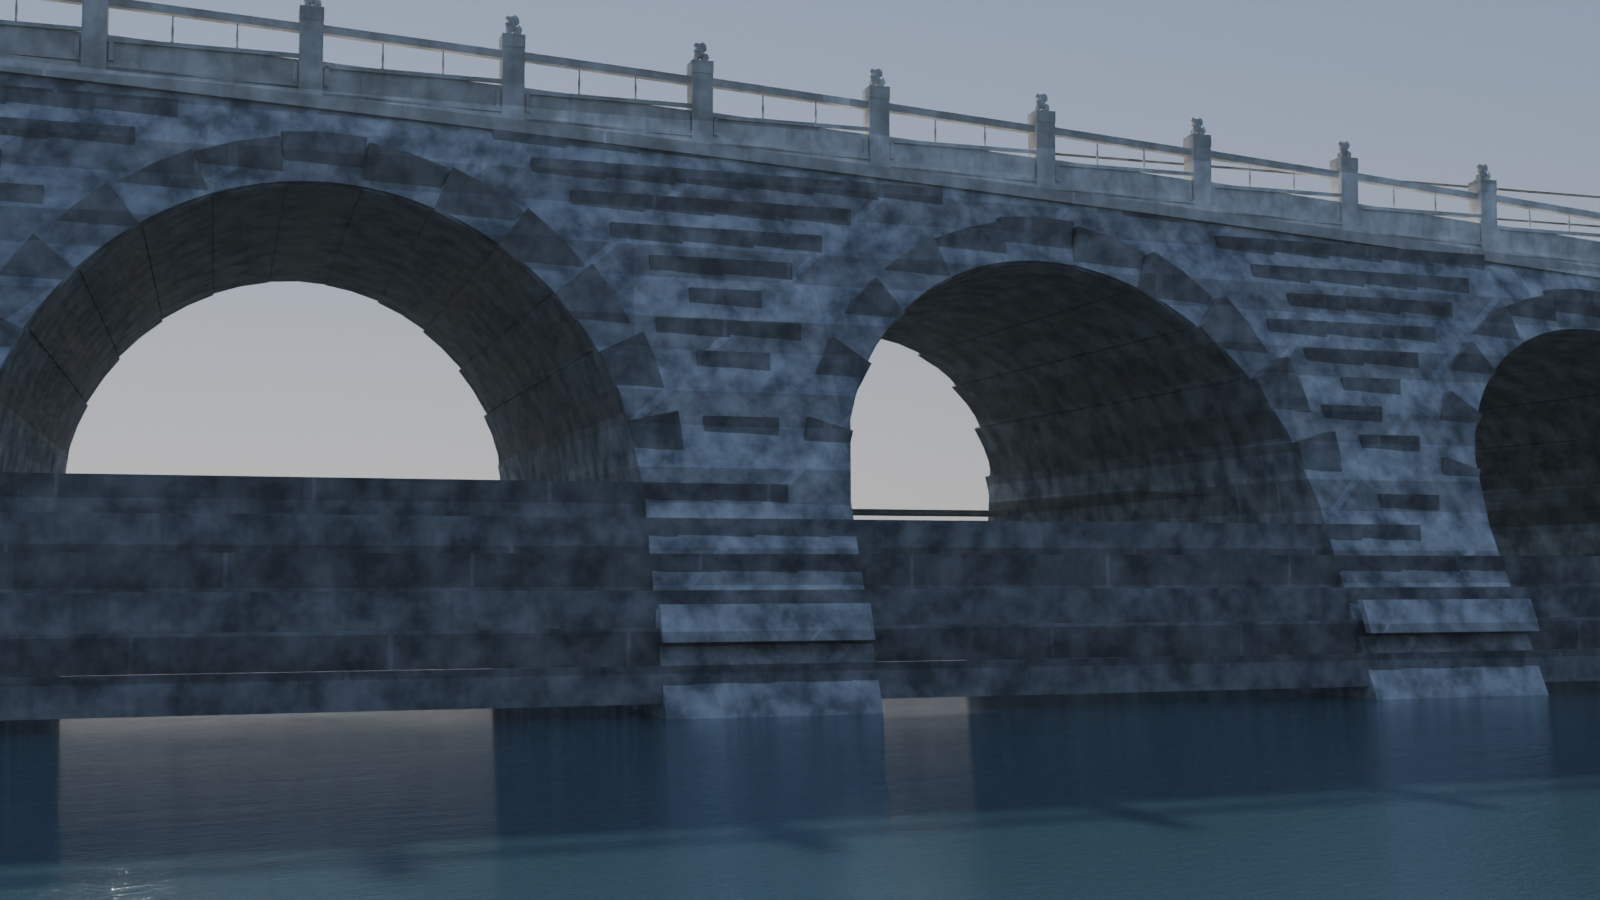
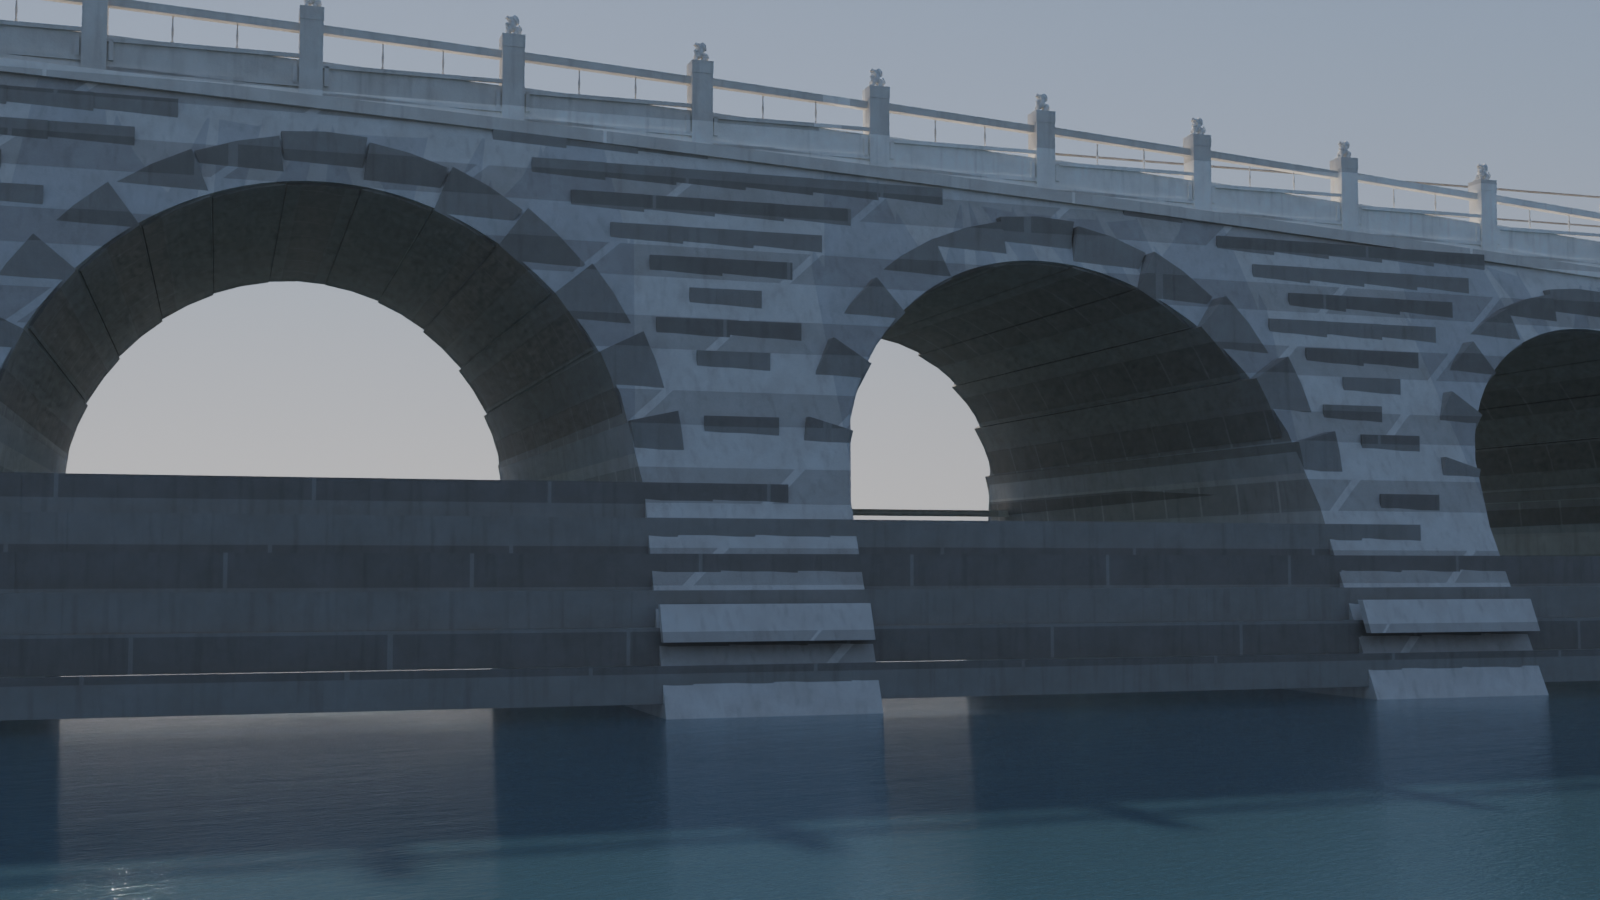
feat(e30): M16材质光学第一轮(八审'后续必做'起手)——缝从黑线(乘0.74)改浅灰侵蚀(0.87)/基色冷灰蓝提亮为暖中性0.43/风化噪声改暖灰污染ramp/块间色差减半/weather 0.42->0.22/砧石出挑0.12->0.03(近齐口); 残留: 拱肩仍有明暗棋盘斑块, 三轮迭代未除根(非浮雕非贴图主因待定位, 疑block噪声相位), 八审裁材质非本轮建模刀, 留材质专项轮

diff --git a/e30_shikongqiao_video/3d/materials.py b/e30_shikongqiao_video/3d/materials.py
@@ -110,11 +110,11 @@ def stone_material(name, base_rgb, joint=0.020, course_h=0.42, weather=0.55,
     blk_mul_d = nt.nodes.new("ShaderNodeMixRGB"); blk_mul_d.blend_type = 'MULTIPLY'
     blk_mul_d.inputs["Fac"].default_value = 1.0
     blk_mul_d.inputs["Color1"].default_value = (base_rgb[0], base_rgb[1], base_rgb[2], 1.0)
-    blk_mul_d.inputs["Color2"].default_value = (0.93, 0.945, 0.915, 1.0)  # 偏冷偏暗块
+    blk_mul_d.inputs["Color2"].default_value = (0.975, 0.968, 0.955, 1.0)  # [八审x2] 块间色差减半(0.93级在提亮基色上读成棋盘格)
     blk_mul_l = nt.nodes.new("ShaderNodeMixRGB"); blk_mul_l.blend_type = 'MULTIPLY'
     blk_mul_l.inputs["Fac"].default_value = 1.0
     blk_mul_l.inputs["Color1"].default_value = (base_rgb[0], base_rgb[1], base_rgb[2], 1.0)
-    blk_mul_l.inputs["Color2"].default_value = (1.06, 1.042, 1.005, 1.0)  # 偏暖偏亮块
+    blk_mul_l.inputs["Color2"].default_value = (1.025, 1.018, 1.005, 1.0)  # [八审x2] 同上
     mix_blk = nt.nodes.new("ShaderNodeMixRGB"); mix_blk.blend_type = 'MIX'
     nt.links.new(blk_fac.outputs[0], mix_blk.inputs["Fac"])
     nt.links.new(blk_mul_d.outputs["Color"], mix_blk.inputs["Color1"])
@@ -130,6 +130,10 @@ def stone_material(name, base_rgb, joint=0.020, course_h=0.42, weather=0.55,
     nt.links.new(noise.outputs["Fac"], ramp.inputs["Fac"])
     ramp.color_ramp.elements[0].position = 0.35
     ramp.color_ramp.elements[1].position = 0.68
+    # [八审材质刀] 风化色斑改"局部暖灰污染"(真石灰岩铁质浸染), 原默认黑白噪声
+    # 乘出来偏冷灰脏。低值=暖褐积污, 高值=近白亮面。
+    ramp.color_ramp.elements[0].color = (0.78, 0.72, 0.62, 1.0)
+    ramp.color_ramp.elements[1].color = (1.06, 1.04, 0.99, 1.0)
     mix1 = nt.nodes.new("ShaderNodeMixRGB"); mix1.blend_type = 'MIX'
     nt.links.new(mix_blk.outputs["Color"], mix1.inputs["Color1"])
     nt.links.new(ramp.outputs["Color"], mix1.inputs["Color2"])
@@ -402,11 +406,13 @@ def fog_material(name="fog", density=0.003, color=(0.70, 0.78, 0.88)):
 # (RGB 252,245,227), 青石基色本身是冷灰蓝 —— 两件事不矛盾, A/B 对照见
 # 3d/ab_qingshi_split.py 输出。
 
-def qingshi_material(name, base_rgb=(0.315, 0.352, 0.390), joint=0.024,
+def qingshi_material(name, base_rgb=(0.430, 0.428, 0.408), joint=0.024,
                      block_var=0.36, bump_strength=0.68):
     """青石(石灰岩)桥体: 冷灰蓝基色 + 鲜明大块条石横分层与纵错缝 + 块级灰度差。
     依据二审意见: 杜绝'程序噪声混凝土抹灰'观感, 强化规整石砌实体与竖缝凹槽。
     [六审B] joint/block_var/bump 开放为参数, 支撑砌缝视觉三级层级。"""
+    # [八审x2] weather 0.42->0.22: 世界坐标噪声在每个独立石块面相位不同,
+    # 高权重在提亮基色上读成"棋盘斑块"(块间对比主因已由此承担)。
     return stone_material(name, base_rgb, joint=joint, course_h=0.46,
-                          weather=0.42, waterline_h=0.60, block_var=block_var,
+                          weather=0.22, waterline_h=0.60, block_var=block_var,
                           bump_strength=bump_strength, base_rough=0.86)

diff --git a/e30_shikongqiao_video/3d/build_scene2.py b/e30_shikongqiao_video/3d/build_scene2.py
@@ -353,11 +353,13 @@ def build():
     # 缝~60-70% 抢券石的戏): 几何 2068+ 块全保留, 只调材质权重。
     # [七审P1-3] 层级再降一级 100/40/25 -> 100/28/15; 券石"100"不再靠更黑的缝,
     # 靠楔形节奏+几何出入(筒券/放射缝), joint 0.026->0.020 bump 0.75->0.65。
-    m_body = MAT.qingshi_material("stone_body", block_var=0.14)
-    m_ring = MAT.qingshi_material("stone_ring", (0.362, 0.392, 0.426),
-                                  joint=0.020, block_var=0.26, bump_strength=0.65)
-    m_course = MAT.qingshi_material("stone_course", (0.345, 0.376, 0.410),
-                                    joint=0.008, block_var=0.06, bump_strength=0.16)
+    # [八审材质刀] 冷灰蓝→青白石暖灰高漫反射: 基色提亮去蓝(0.43 级中性暖灰),
+    # 缝侵蚀浅灰化在 materials.py, 暖灰污染在风化 ramp。
+    m_body = MAT.qingshi_material("stone_body", block_var=0.08)
+    m_ring = MAT.qingshi_material("stone_ring", (0.455, 0.450, 0.430),
+                                  joint=0.020, block_var=0.10, bump_strength=0.65)
+    m_course = MAT.qingshi_material("stone_course", (0.440, 0.436, 0.416),
+                                    joint=0.008, block_var=0.04, bump_strength=0.16)
     m_rail = MAT.marble_material("marble")
     m_water = MAT.water_material()
     m_earth = MAT.earth_material("shore_earth")

diff --git a/e30_shikongqiao_video/3d/masonry.py b/e30_shikongqiao_video/3d/masonry.py
@@ -30,7 +30,8 @@ VOUSSOIR_FACE_W = 1.00      # 兜底面宽(仅当目标表缺项时用)
 VOUSSOIR_TARGET = [17, 15, 13, 13, 11, 11, 9, 9, 7]
 RING_T = 0.54              # [七审P0-2] 券脸径向宽 0.62->0.54(-13%): '轻一点的券环+更大孔占比', 厚重感一半来自环太宽
 JOINT = 0.02               # 灰缝 m
-FACE_DEPTH = 0.12          # 贴面石出墙面深度 m
+FACE_DEPTH = 0.03          # [八审x3] 0.12->0.03: 贴面浮雕在低角光下自投影,
+                           # 才是'棋盘斑块'真因(非贴图); 真桥砧石近齐口灰缝
 # [六审E] 券石改全深筒券: 真桥透洞可见阶梯状环石内壁, 原"前后薄浮雕"读成
 # "正立面开孔+光滑内筒"。内弧伸入洞口 BARREL_PROTRUDE, 邻块留放射缝 JOINT_GAP,
 # 端面出墙面 FACE_PROUD(保留正面环带阴影)。
